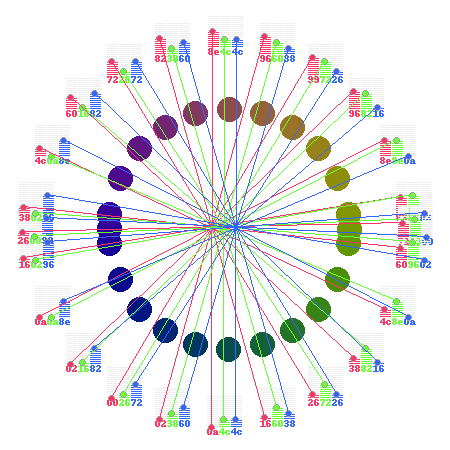
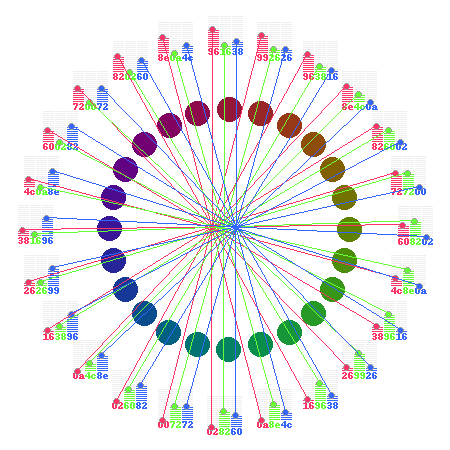
円の一周を１８０°と勘違いしていた部分を修正

Changed region(s): [[0.0311, 0.0622, 0.9644, 0.9644], [0.4667, 0.9022, 0.5289, 0.9644], [0.4667, 0.0622, 0.5289, 0.1244]]

diff --git a/step16.py b/step16.py
@@ -28,20 +28,10 @@ color_list = [(0xff, 0x66, 0x99), (0xff, 0x77, 0x77),
 def main():
 
     # 0時の方向から時計回り。正円。
-    # theta_list = [90, 75, 60, 45, 30, 15,
-    #              0, 345, 330, 315, 300, 285,
-    #              270, 255, 240, 225, 210, 195,
-    #              180, 165, 150, 135, 120, 105]
-    # 0時の方向から時計回り。正円。平べったくする。
-    d1 = 1
-    d2 = 2
-    d3 = 3
-    d4 = 5
-    d5 = 8
-    theta_list = [90, 75-d1, 60-d2, 45-d3, 30-d4, 15-d5,
-                  0, 345+d5, 330+d4, 315+d3, 300+d2, 285+d1,
-                  270, 255-d1, 240-d2, 225-d3, 210-d4, 195-d5,
-                  180, 165+d5, 150+d4, 135+d3, 120+d2, 105+d1]
+    theta_list = [90, 75, 60, 45, 30, 15,
+                  0, 345, 330, 315, 300, 285,
+                  270, 255, 240, 225, 210, 195,
+                  180, 165, 150, 135, 120, 105]
     size = len(theta_list)
 
     im = Image.new('RGB', (450, 450), white)
@@ -50,8 +40,8 @@ def main():
     color_list = tone_filter(create_cos_wave(size), 1, 0)
     draw_tone_circle(draw, theta_list, color_list)
     # リバース
-    #color_list = reverse2_filter(create_cos_wave(size))
-    #draw_cell_circle(draw, 225, 225, 80, theta_list, color_list)
+    # color_list = reverse2_filter(create_cos_wave(size))
+    # draw_cell_circle(draw, 225, 225, 80, theta_list, color_list)
     im.save('shared/bright-tone.png')
 
     im = Image.new('RGB', (450, 450), white)
@@ -200,13 +190,13 @@ def create_cos_wave(size):
     for i in range(0, size):
         theta = i * arc
         # thetaが0のときyが1なのはcos波
-        # 赤を時計の０時方向に合わせたいので目視で 30° 時計回りに進めるという調整
-        red_modify = -30
+        # 赤を時計の０時方向に合わせたいので目視で 15° 時計回りに進めるという調整
+        red_modify = -15
         ry = math.cos(math.radians(theta+red_modify))
         # print(f"[{i}] red y={ry} theta={theta}")
 
         # 明るさを調整
-        gy = math.cos(math.radians(theta+red_modify-60))
+        gy = math.cos(math.radians(theta+red_modify-120))
 
         by = math.cos(math.radians(theta+red_modify+120))
         print(f"[{i}] {ry} {gy} {by}")
